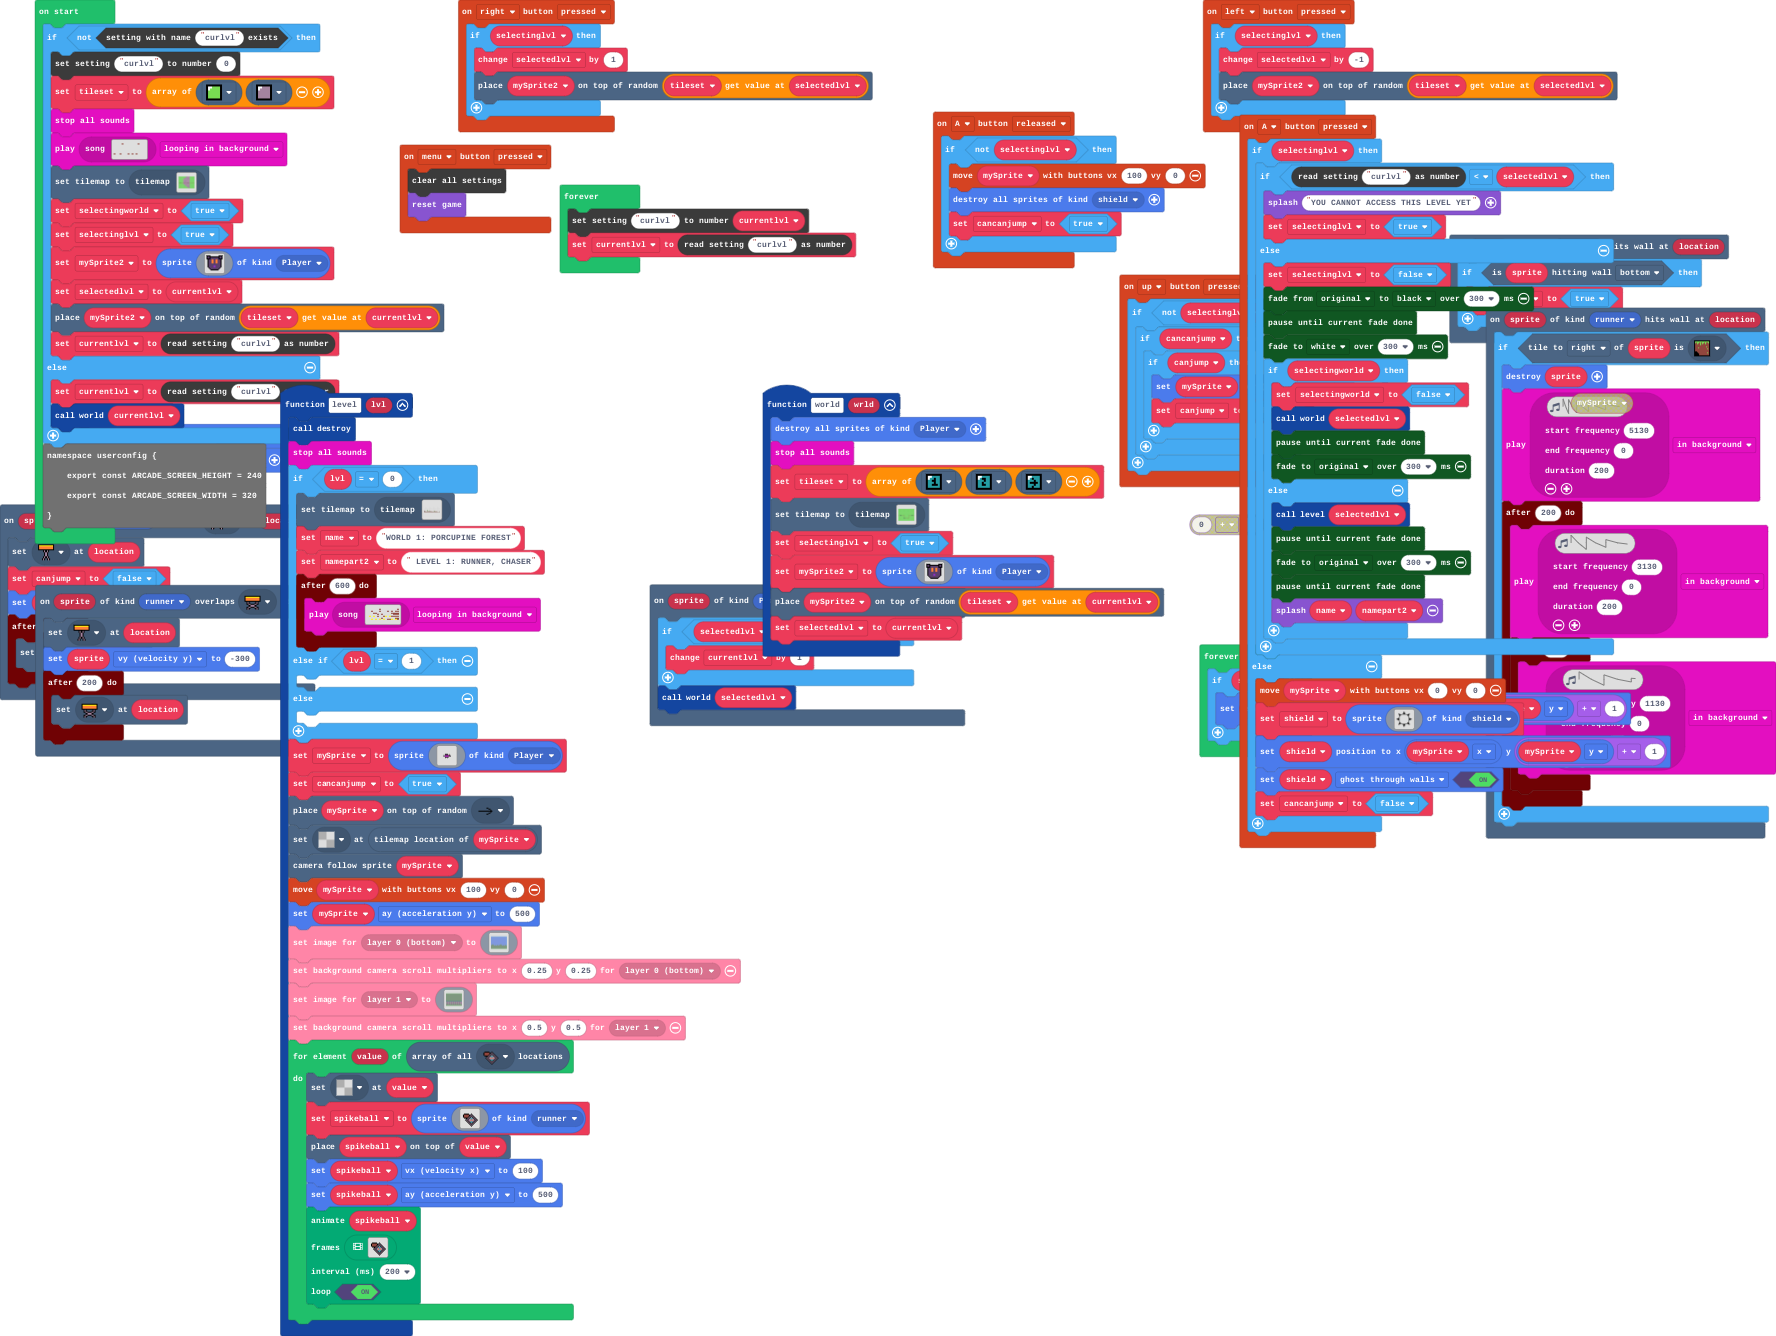
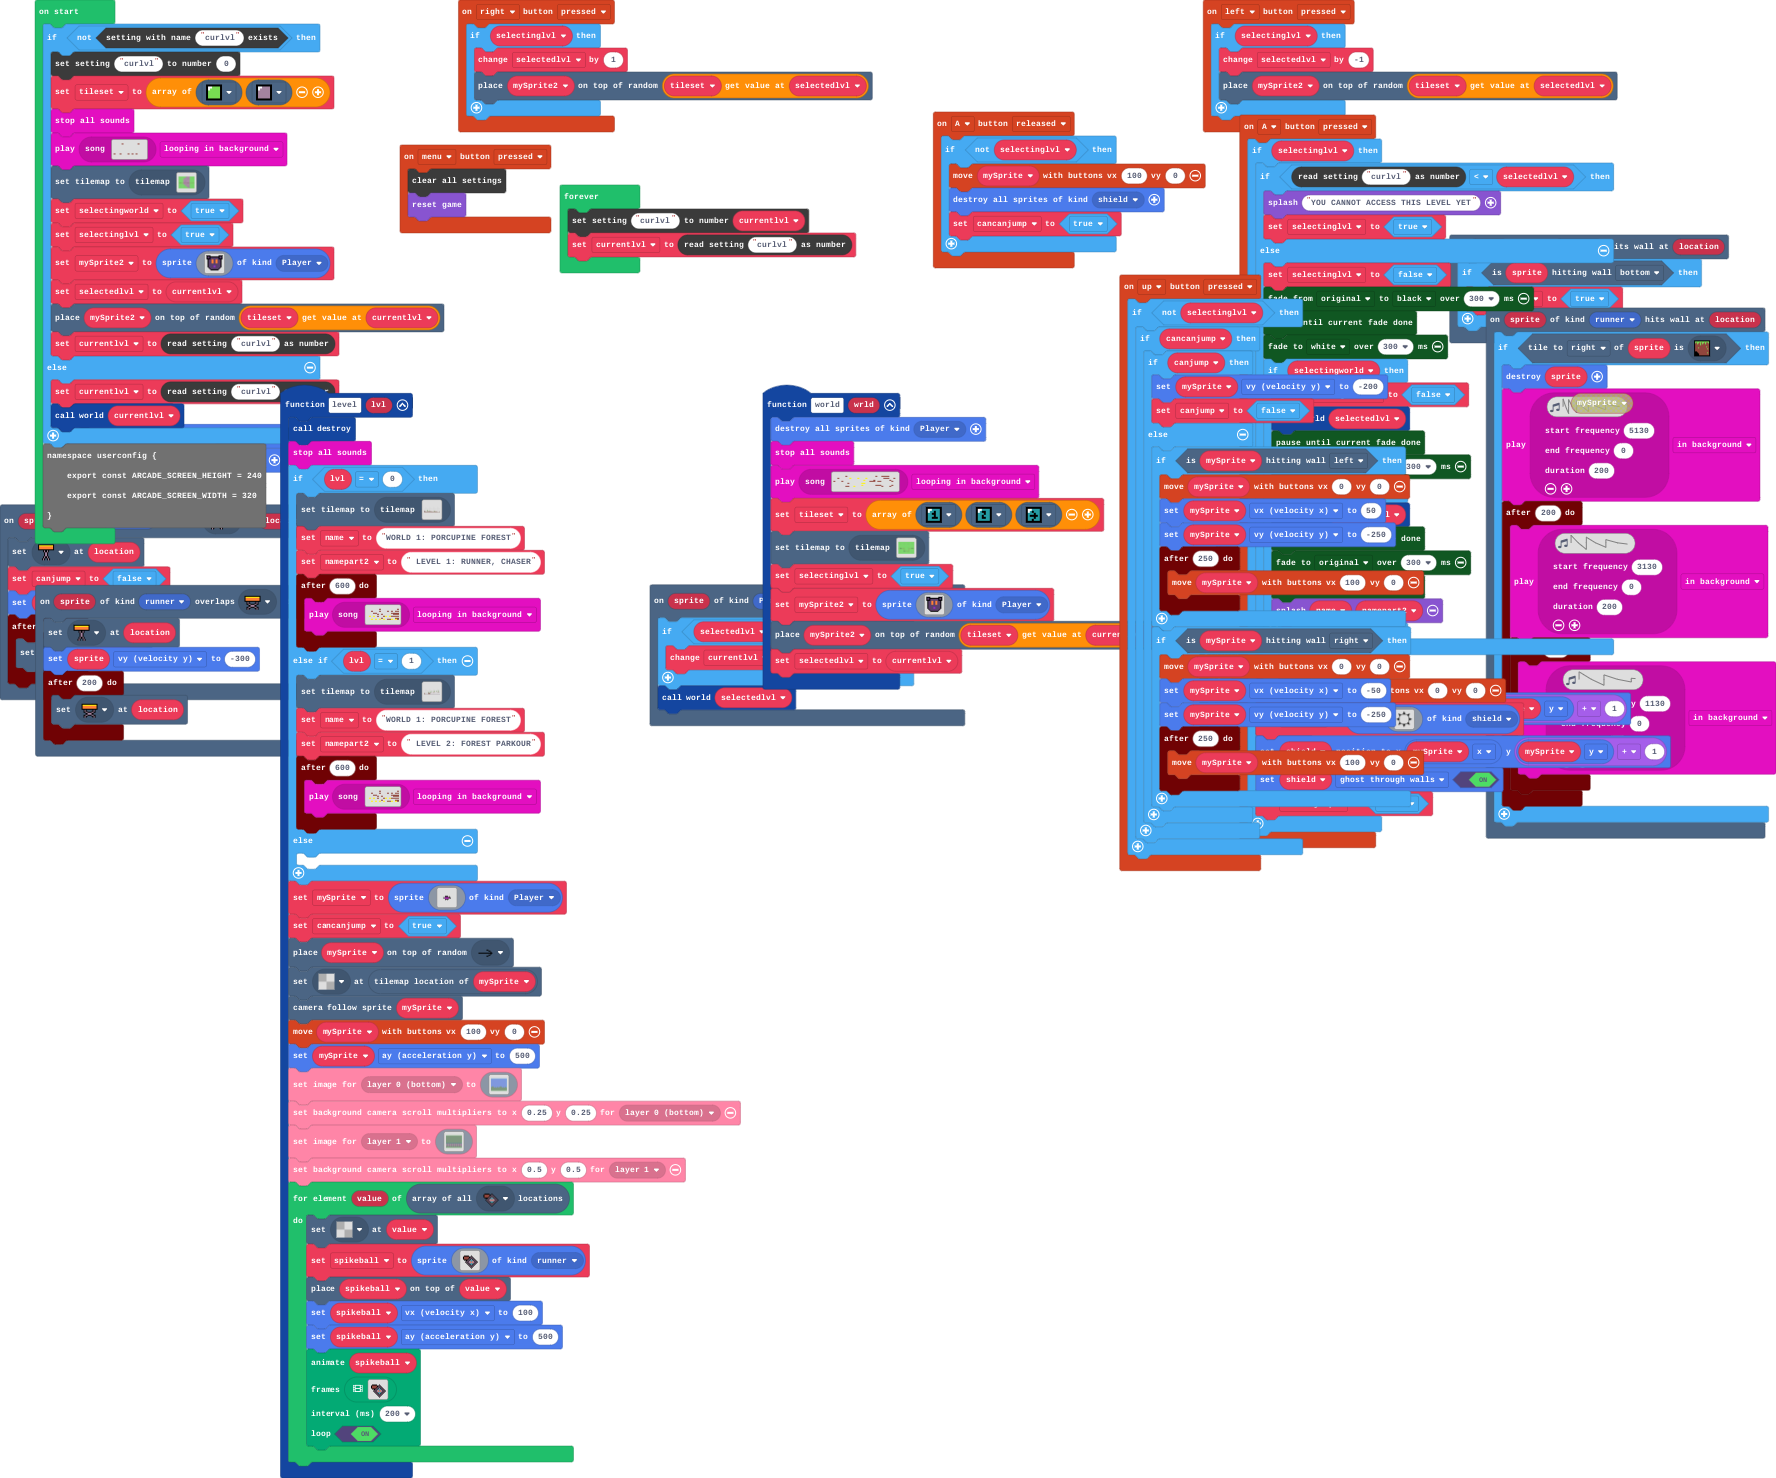
Update main.blocks, main.ts, tilemap.g.jres, tilemap.g.ts

diff --git a/tilemap.g.ts b/tilemap.g.ts
@@ -74,6 +74,8 @@ namespace myTiles {
     export const tile34 = image.ofBuffer(hex``);
     //% fixedInstance jres blockIdentity=images._tile
     export const tile35 = image.ofBuffer(hex``);
+    //% fixedInstance jres blockIdentity=images._tile
+    export const tile36 = image.ofBuffer(hex``);
 
     helpers._registerFactory("tilemap", function(name: string) {
         switch(helpers.stringTrim(name)) {
@@ -284,6 +286,29 @@ namespace myTiles {
 22222222222222..222222..2222222222...222.2222222..........22
 222222222222222222222222222222222222222222222222222222222222
 `, [myTiles.transparency16,myTiles.tile24,myTiles.tile25,myTiles.tile26,myTiles.tile28,myTiles.tile29,myTiles.tile32,myTiles.tile31,myTiles.tile34,myTiles.tile33,myTiles.tile35], TileScale.Sixteen);
+            case "level12":
[1 lines of base64/hex data omitted]
+............................................................
+............................................................
+............................................................
+............................................................
+............................................................
+............................................................
+.....................................................2......
+......................................2........2....222.....
+.....................................222......222..22222....
+.............................2......22222...................
+.......................2....222.............................
+................2.....222...................................
+...............222...22222..............2..2...2...........2
+...................................2..2...........2222222...
+.............................2..2..2222.....................
+.........2...2..2......2..2.................................
+..22..2.........22222222....................................
+..22............22222222....................................
+2222............22222222....................................
+2222............22222222....................................
+`, [myTiles.transparency16,myTiles.tile24,myTiles.tile25,myTiles.tile26,myTiles.tile28,myTiles.tile29,myTiles.tile34,myTiles.tile35,myTiles.tile36], TileScale.Sixteen);
         }
         return null;
     })
@@ -362,6 +387,8 @@ namespace myTiles {
             case "tile34":return tile34;
             case "myTile33":
             case "tile35":return tile35;
+            case "myTile34":
+            case "tile36":return tile36;
         }
         return null;
     })

diff --git a/main.ts b/main.ts
@@ -13,6 +13,23 @@ controller.up.onEvent(ControllerButtonEvent.Pressed, function () {
             if (canjump) {
                 mySprite.vy = -200
                 canjump = false
+            } else {
+                if (mySprite.isHittingTile(CollisionDirection.Left)) {
+                    controller.moveSprite(mySprite, 0, 0)
+                    mySprite.vx = 50
+                    mySprite.vy = -250
+                    timer.after(250, function () {
+                        controller.moveSprite(mySprite, 100, 0)
+                    })
+                }
+                if (mySprite.isHittingTile(CollisionDirection.Right)) {
+                    controller.moveSprite(mySprite, 0, 0)
+                    mySprite.vx = -50
+                    mySprite.vy = -250
+                    timer.after(250, function () {
+                        controller.moveSprite(mySprite, 100, 0)
+                    })
+                }
             }
         }
     }
@@ -35,7 +52,12 @@ function level (lvl: number) {
[1 lines of base64/hex data omitted]
         })
     } else if (lvl == 1) {
-    	
+        tiles.setCurrentTilemap(tilemap`level12`)
+        name = "WORLD 1: PORCUPINE FOREST"
+        namepart2 = " LEVEL 2: FOREST PARKOUR"
+        timer.after(600, function () {
[1 lines of base64/hex data omitted]
+        })
     } else {
     	
     }
@@ -804,6 +826,7 @@ function destroy () {
 function world (wrld: number) {
     sprites.destroyAllSpritesOfKind(SpriteKind.Player)
     music.stopAllSounds()
[1 lines of base64/hex data omitted]
     tileset = [assets.tile`myTile2`, assets.tile`myTile12`, assets.tile`myTile18`]
     tiles.setCurrentTilemap(tilemap`level1`)
     selectinglvl = true
